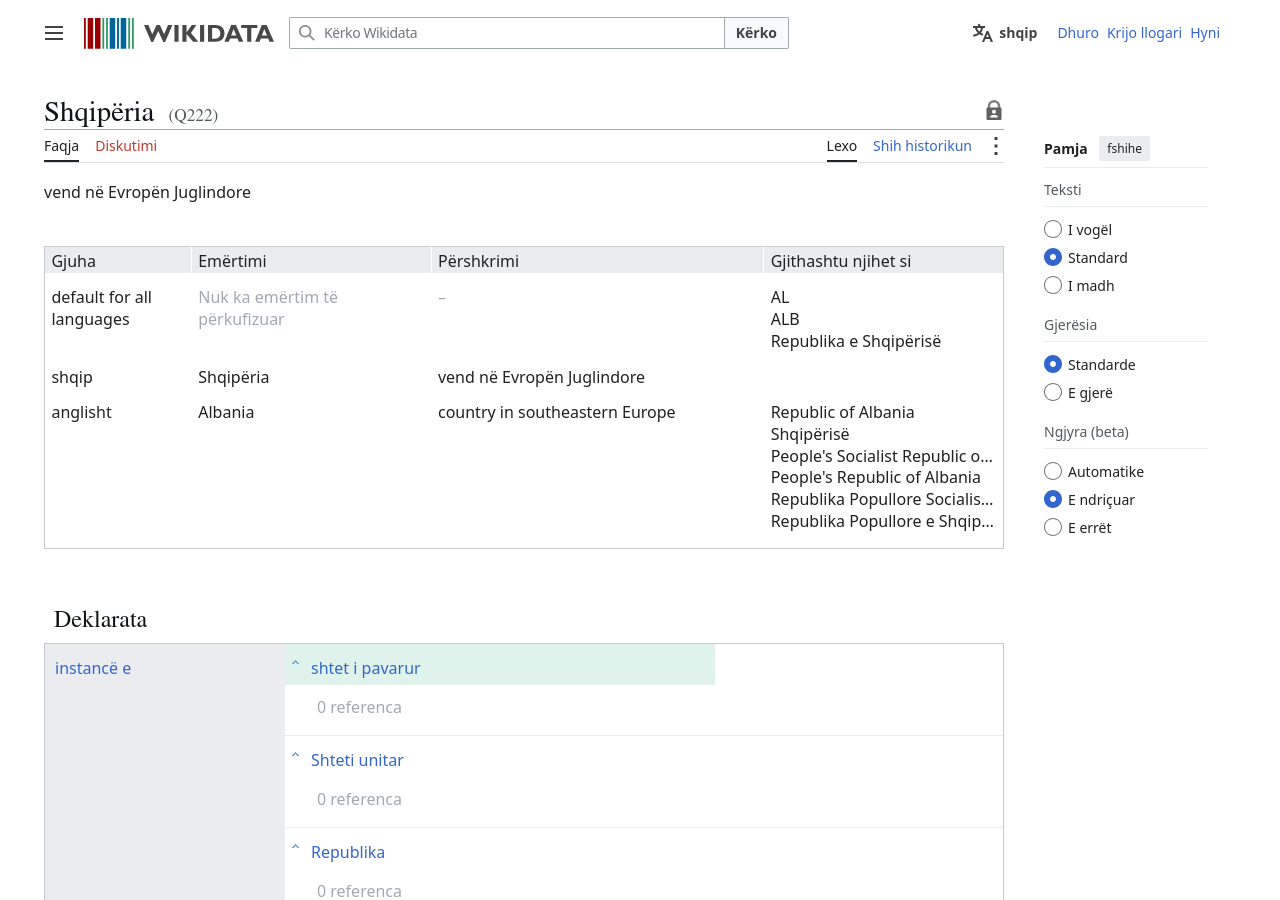
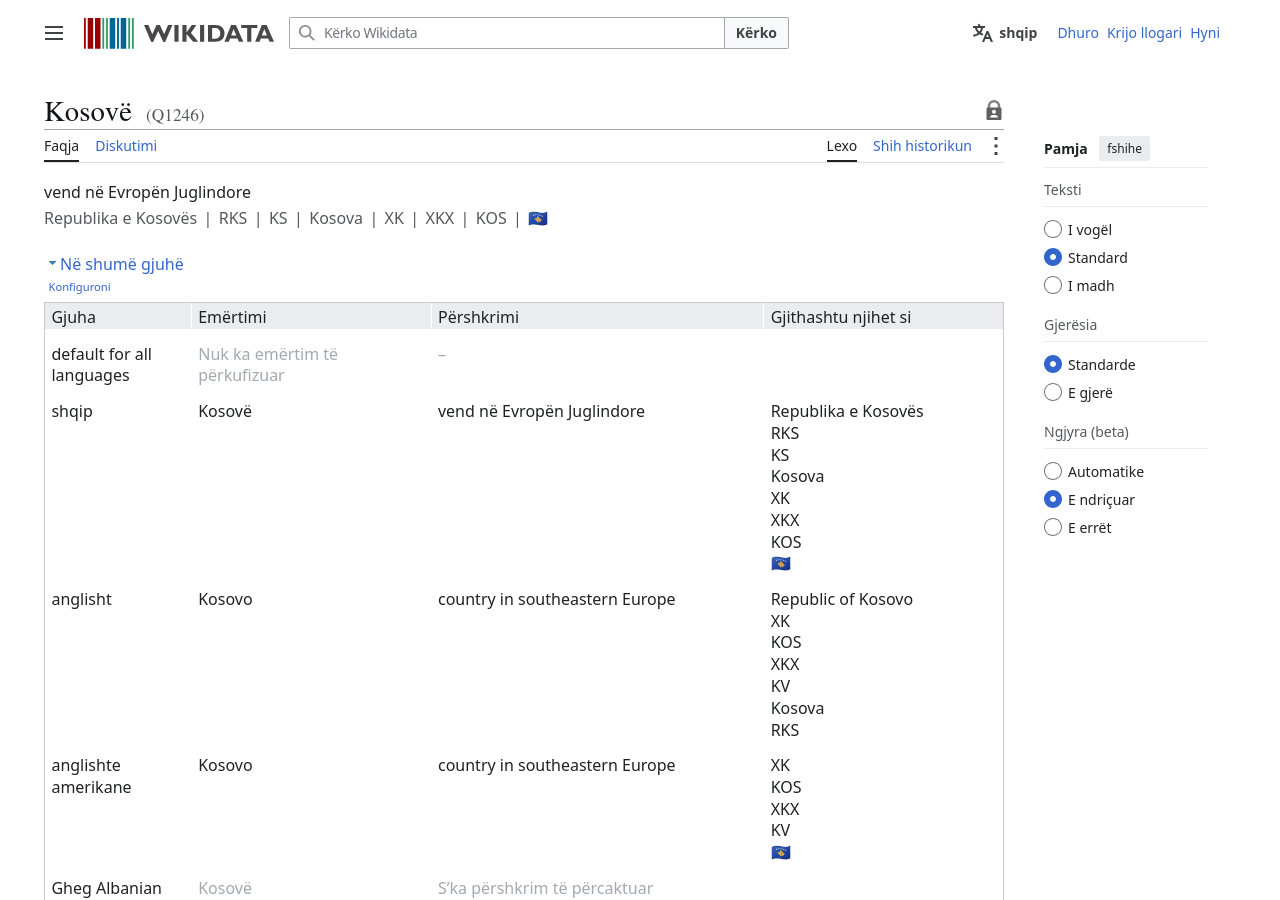
Use Kosovo (Q1246) as the example item

diff --git a/index.html b/index.html
@@ -53,8 +53,8 @@
     <h2>About Wikidata</h2>
     <div class="cols">
       <div>
-        <img class="shot" src="img/item.png" alt="Wikidata item Q222 (Albania), shown in Albanian">
-        <div class="small">Item <a href="https://www.wikidata.org/wiki/Q222">Q222</a> &mdash; Albania</div>
+        <img class="shot" src="img/item.png" alt="Wikidata item Q1246 (Kosovo), shown in Albanian">
+        <div class="small">Item <a href="https://www.wikidata.org/wiki/Q1246">Q1246</a> &mdash; Kosovo</div>
       </div>
       <div>
         <ul style="font-size:.8em">
@@ -74,7 +74,7 @@
       ~4 min. Walk through the screenshot: label, description, aliases, then statements.
       Free, multilingual, structured data that anyone can edit (CC0).
       It feeds Wikipedia infoboxes, links between language versions, Commons, and search/voice assistants.
-      Same item, every language: Shqipëria / Albania / Albanien.
+      Same item, every language: Kosovë / Kosovo / Kosovo.
     </aside>
   </section>
 
@@ -103,7 +103,7 @@
     <p>Let's make our first edits together.</p>
     <p><a class="cta" href="https://www.wikidata.org/wiki/Special:CreateAccount">Create your account</a></p>
     <ul class="links" style="font-size:.8em">
-      <li>Open an item: <a href="https://www.wikidata.org/wiki/Q222">wikidata.org/wiki/Q222</a></li>
+      <li>Open an item: <a href="https://www.wikidata.org/wiki/Q1246">wikidata.org/wiki/Q1246</a></li>
       <li>Add a label or statement in Albanian</li>
       <li>Explore data: <a href="https://query.wikidata.org">query.wikidata.org</a></li>
     </ul>
